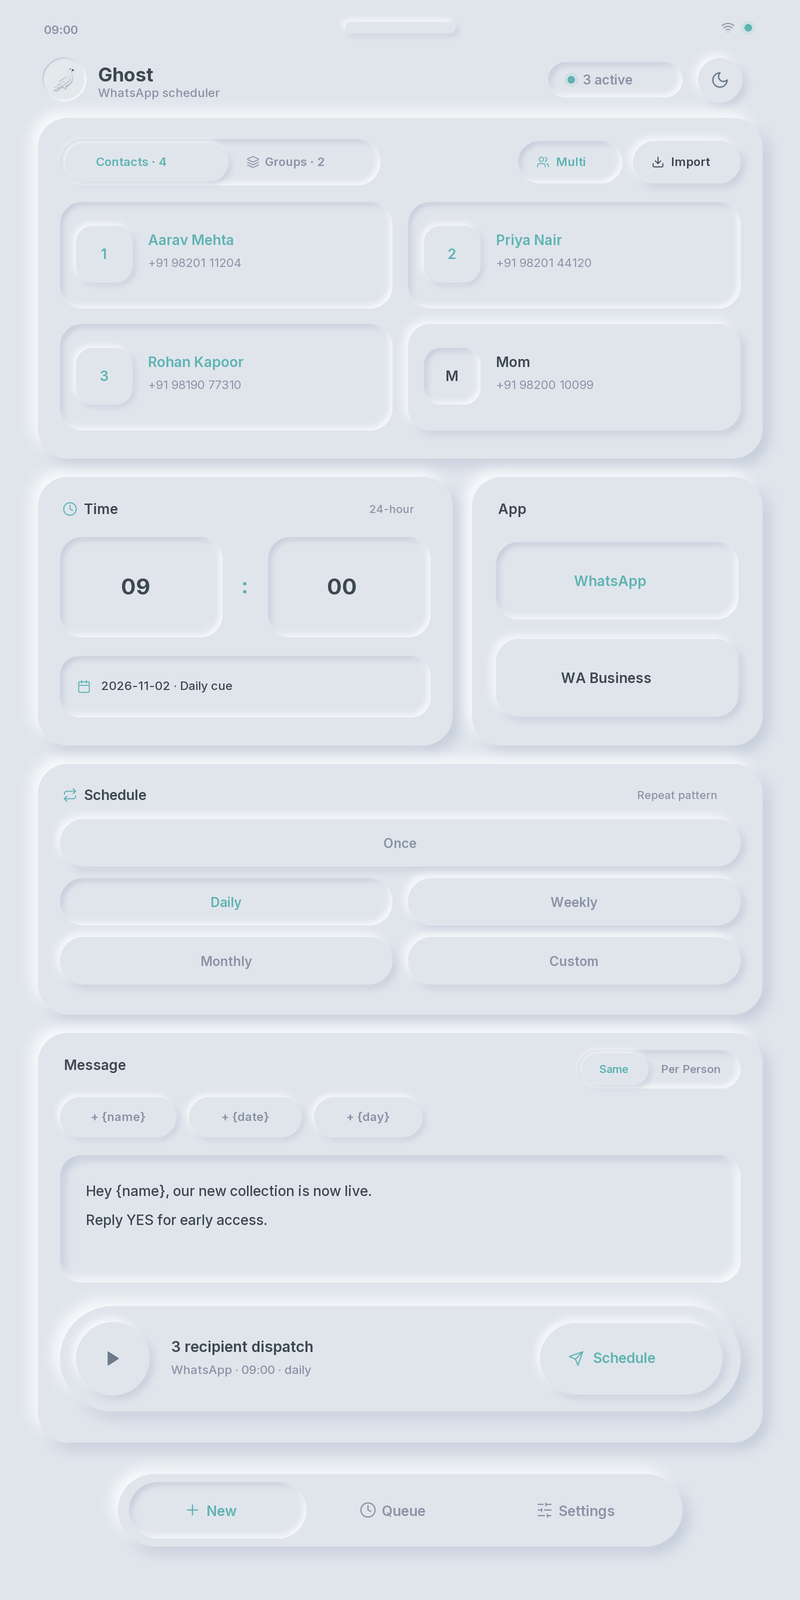
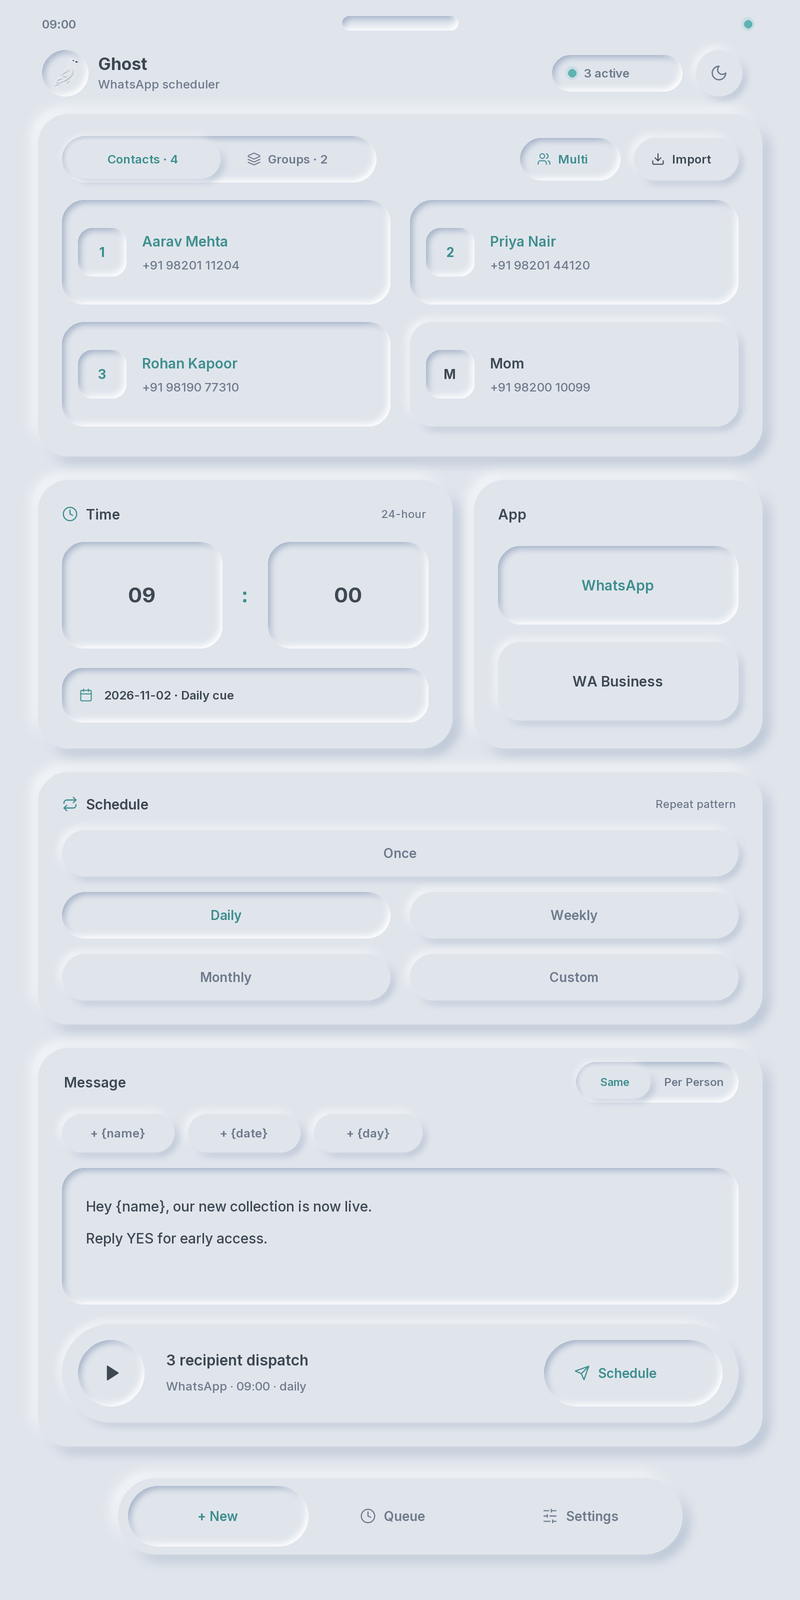
fix: bust immutable browser cache on screenshots and refine inner pill/card shadows

diff --git a/index.html b/index.html
@@ -32,14 +32,14 @@
   />
   <link
     rel="preload"
-    href="assets/card-loved-ones.webp"
+    href="assets/card-loved-ones.webp?v=4"
     as="image"
     type="image/webp"
     fetchpriority="high"
   />
   <link
     rel="preload"
-    href="assets/card-client-lists.webp"
+    href="assets/card-client-lists.webp?v=4"
     as="image"
     type="image/webp"
     fetchpriority="high"
@@ -732,7 +732,7 @@
     .analytics-list {
       display: flex;
       flex-direction: column;
-      gap: 14px;
+      gap: 16px;
     }
 
     .analytics-row {
@@ -740,7 +740,7 @@
       height: 64px;
       border-radius: var(--radius-pill);
       background-color: var(--bg-base);
-      box-shadow: var(--shadow-raised);
+      box-shadow: var(--shadow-raised-sm);
       padding: 8px 16px;
       display: flex;
       align-items: center;
@@ -753,7 +753,7 @@
     .analytics-row:hover,
     .analytics-row:active,
     .analytics-row.is-active {
-      box-shadow: var(--shadow-inset);
+      box-shadow: var(--shadow-inset-sm);
     }
 
     .analytics-row.is-active .icon-well {
@@ -897,8 +897,8 @@
       aspect-ratio: 1 / 2;
       border-radius: 22px;
       background-color: var(--bg-base);
-      box-shadow: var(--shadow-inset);
-      padding: 8px;
+      box-shadow: var(--shadow-inset-sm);
+      padding: 10px;
       display: flex;
       align-items: center;
       justify-content: center;
@@ -1003,9 +1003,9 @@
       <div class="brand-lockup">
         <div class="brand-icon-ring" aria-hidden="true" style="overflow: hidden; padding: 6px;">
           <picture style="width: 100%; height: 100%; display: flex; align-items: center; justify-content: center;">
-            <source srcset="assets/pigeon-white-nobg.webp" type="image/webp" />
+            <source srcset="assets/pigeon-white-nobg.webp?v=4" type="image/webp" />
             <img
-              src="assets/pigeon-white-nobg.png"
+              src="assets/pigeon-white-nobg.png?v=4"
               alt="Ghost White Pigeon Logo"
               width="64"
               height="64"
@@ -1075,9 +1075,9 @@
                 </div>
                 <div class="square-card__art">
                   <picture>
-                    <source srcset="assets/card-loved-ones.webp" type="image/webp" />
+                    <source srcset="assets/card-loved-ones.webp?v=4" type="image/webp" />
                     <img
-                      src="assets/card-loved-ones.png"
+                      src="assets/card-loved-ones.png?v=4"
                       alt="Soft UI 3D heart clock scheduled at 7 AM for loved ones"
                       width="600"
                       height="600"
@@ -1110,9 +1110,9 @@
                 </div>
                 <div class="square-card__art">
                   <picture>
-                    <source srcset="assets/card-client-lists.webp" type="image/webp" />
+                    <source srcset="assets/card-client-lists.webp?v=4" type="image/webp" />
                     <img
-                      src="assets/card-client-lists.png"
+                      src="assets/card-client-lists.png?v=4"
                       alt="Soft UI 3D sequential client broadcast envelopes"
                       width="600"
                       height="600"
@@ -1155,9 +1155,9 @@
                 <div class="avatar-ring" aria-hidden="true">
                   <div class="avatar-slot" style="overflow: hidden; padding: 6px;">
                     <picture style="width: 100%; height: 100%; display: flex; align-items: center; justify-content: center;">
-                      <source srcset="assets/pigeon-white-nobg.webp" type="image/webp" />
+                      <source srcset="assets/pigeon-white-nobg.webp?v=4" type="image/webp" />
                       <img
-                        src="assets/pigeon-white-nobg.png"
+                        src="assets/pigeon-white-nobg.png?v=4"
                         alt="Ghost White Pigeon Logo"
                         width="64"
                         height="64"
@@ -1391,9 +1391,9 @@
           <article class="neu-card-md screen-card">
             <div class="screen-bezel">
               <picture>
-                <source srcset="assets/screen-broadcast.webp" type="image/webp" />
+                <source srcset="assets/screen-broadcast.webp?v=4" type="image/webp" />
                 <img
-                  src="assets/screen-broadcast.png"
+                  src="assets/screen-broadcast.png?v=4"
                   alt="Ghost Broadcast Composer Screen with Contacts and {name} Variables"
                   width="800"
                   height="1600"
@@ -1412,9 +1412,9 @@
           <article class="neu-card-md screen-card">
             <div class="screen-bezel">
               <picture>
-                <source srcset="assets/screen-live-send.webp" type="image/webp" />
+                <source srcset="assets/screen-live-send.webp?v=4" type="image/webp" />
                 <img
-                  src="assets/screen-live-send.png"
+                  src="assets/screen-live-send.png?v=4"
                   alt="Ghost Live Dispatch Overlay Screen Sending Messages One by One"
                   width="800"
                   height="1600"
@@ -1433,9 +1433,9 @@
           <article class="neu-card-md screen-card">
             <div class="screen-bezel">
               <picture>
-                <source srcset="assets/screen-loved-ones.webp" type="image/webp" />
+                <source srcset="assets/screen-loved-ones.webp?v=4" type="image/webp" />
                 <img
-                  src="assets/screen-loved-ones.png"
+                  src="assets/screen-loved-ones.png?v=4"
                   alt="Ghost Queue and Scheduled Tasks Screen for Daily and Yearly Cues"
                   width="800"
                   height="1600"
@@ -1454,9 +1454,9 @@
           <article class="neu-card-md screen-card">
             <div class="screen-bezel">
               <picture>
-                <source srcset="assets/screen-setup.webp" type="image/webp" />
+                <source srcset="assets/screen-setup.webp?v=4" type="image/webp" />
                 <img
-                  src="assets/screen-setup.png"
+                  src="assets/screen-setup.png?v=4"
                   alt="Ghost Setup and Android Permissions Screen for Auto-Tap and Exact Wake"
                   width="800"
                   height="1600"
